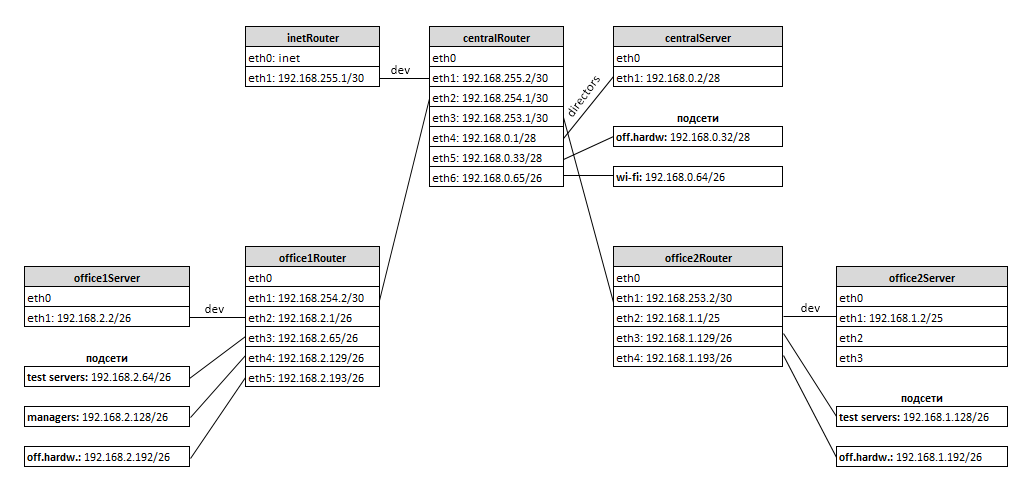
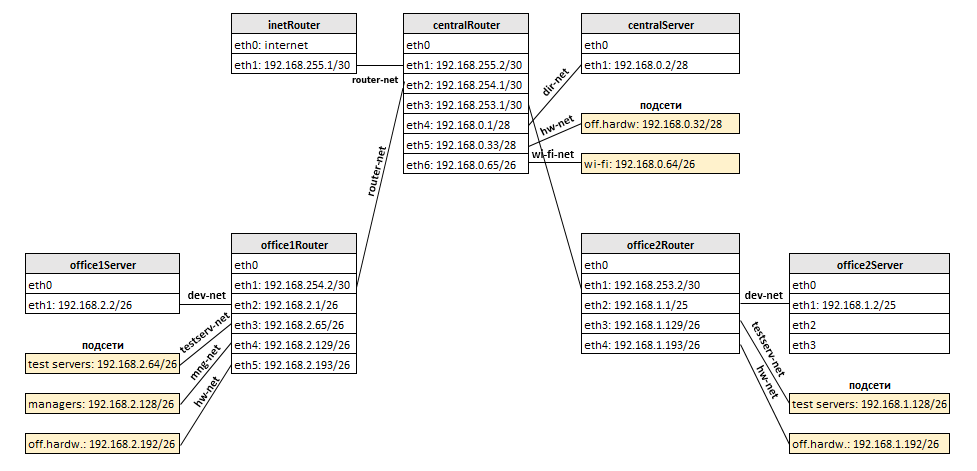
fixed files

Changed region(s): [[0.0, 0.0297, 0.7677, 0.9809], [0.5527, 0.4161, 0.9826, 0.9809]]

diff --git a/18-network_architecture/README.md b/18-network_architecture/README.md
@@ -10,23 +10,23 @@
 Тестировалось на virtualbox
 
 ### Планируемая архитектура
-построить следующую архитектуру:
+Построить следующую архитектуру:
 
 ### Сеть office1
-- 192.168.2.0/26      - dev
-- 192.168.2.64/26    - test servers
+- 192.168.2.0/26    - dev
+- 192.168.2.64/26   - test servers
 - 192.168.2.128/26  - managers
 - 192.168.2.192/26  - office hardware
 
 ### Сеть office2
-- 192.168.1.0/25      - dev
+- 192.168.1.0/25    - dev
 - 192.168.1.128/26  - test servers
 - 192.168.1.192/26  - office hardware
 
 ### Сеть central
 - 192.168.0.0/28    - directors
-- 192.168.0.32/28  - office hardware
-- 192.168.0.64/26  - wifi
+- 192.168.0.32/28   - office hardware
+- 192.168.0.64/26   - wifi
 
 ```
 Office1 ---\
@@ -53,23 +53,26 @@ Office2----/
 - Соединить офисы в сеть согласно схеме и настроить роутинг
 - Все сервера и роутеры должны ходить в инет черз inetRouter
 - Все сервера должны видеть друг друга
-- у всех новых серверов отключить дефолт на нат (eth0), который вагрант поднимает для связи
-- при нехватке сетевых интервейсов добавить по несколько адресов на интерфейс
+- У всех новых серверов отключить дефолт на нат (eth0), который вагрант поднимает для связи
+- При нехватке сетевых интервейсов добавить по несколько адресов на интерфейс
 
 ### Критерии оценки: 
 - 4 - сделана хотя бы часть
 - 5 - все сделано
 
-## Решение: практическая часть
+# Выполнение практической части
 
-Демонстрационный стенд разворачивается с помощью [Vagrantfile](Vagrantfile)
+### Демонстрационный стенд с серверами разворачивается с помощью [Vagrantfile](Vagrantfile)
 
-### Схема объединения хостов и подсетей
+В случае выявления проблем при тестировании (ping и т.д.) может потребоваться перезапуск сети на хостах (не воспроизвелось после фикса).
+
+### Логическая схема объединения хостов и подсетей
 
 ![alt text](plan_network.png)
 
-### Проверка видимости серверов и выхода в интернет с помощью ping, traceroute:
-- с хоста office1Server
+## Проверка видимости серверов и выхода в интернет
+
+- #### с сервера office1Server
 
 ```
 [vagrant@office1Server ~]$ ping -c 3 192.168.1.2 ; ping -c 3 192.168.0.2 ; ping -c 3 mail.ru
@@ -129,7 +132,7 @@ traceroute to otus.ru (80.87.192.10), 30 hops max, 60 byte packets
 12  core.webdc.ru (92.63.108.98)  21.190 ms  17.651 ms  9.698 ms
 13  main1.i.otus.ru (80.87.192.10)  4.082 ms  4.642 ms  3.380 ms
 ```
-- c хоста office2Server
+- #### c сервера office2Server
 
 ```
 [root@office2Server vagrant]# ping -c 3 192.168.2.2 ; ping -c 3 192.168.0.2 ; ping -c 3 mail.ru
@@ -190,7 +193,7 @@ traceroute to otus.ru (80.87.192.10), 30 hops max, 60 byte packets
 12  core.webdc.ru (92.63.108.98)  4.822 ms  6.355 ms  6.019 ms
 13  main1.i.otus.ru (80.87.192.10)  3.185 ms  7.375 ms  5.763 ms
 ```
-- c хоста centralOffice
+- #### c сервера centralServer
 ```
 [root@centralServer vagrant]# ping -c 3 192.168.2.2 ; ping -c 3 192.168.1.2 ; ping -c 3 mail.ru
 PING 192.168.2.2 (192.168.2.2) 56(84) bytes of data.
@@ -247,4 +250,189 @@ traceroute to otus.ru (80.87.192.10), 30 hops max, 60 byte packets
 12  main1.i.otus.ru (80.87.192.10)  5.118 ms  4.005 ms  3.963 ms
 ```
 
-## Решение: теоритическая часть
+# Выполнение теоритической части
+
+- Посчитать сколько узлов в каждой подсети, включая свободные
+- Указать broadcast адрес для каждой подсети
+- Проверить нет ли ошибок при разбиении
+- Найти свободные подсети
+
+## Сеть office1
+
+- #### dev: 192.168.2.0/26 
+```
+Адрес подсети:   192.168.2.0
+Сетевая маска:   255.255.255.192 = 26
+Минимальный IP:  192.168.2.1
+Максимальный IP: 192.168.2.62
+Broadcast:       192.168.2.63
+Число хостов:    62
+```
+- #### test servers: 192.168.2.64/26
+```
+Адрес подсети:   192.168.2.64
+Сетевая маска:   255.255.255.192 = 26
+Минимальный IP:  192.168.2.65
+Максимальный IP: 192.168.2.126
+Broadcast:       192.168.2.127
+Число хостов:    62
+```
+- #### managers: 192.168.2.128/26
+```
+Адрес подсети:   192.168.2.128
+Сетевая маска:   255.255.255.192 = 26
+Минимальный IP:  192.168.2.129
+Максимальный IP: 192.168.2.190
+Broadcast:       192.168.2.191
+Число хостов:    62
+```
+- #### office hardware: 192.168.2.192/26
+```
+Адрес подсети:   192.168.2.192
+Сетевая маска:   255.255.255.192 = 26
+Минимальный IP:  192.168.2.193
+Максимальный IP: 192.168.2.254
+Broadcast:       192.168.2.255
+Число хостов:    62
+```
+#### Итого:
+```
+Общее количество узлов сети office: 62 x 4 = 248
+Свободных подсетей нет
+```
+
+## Сеть office2
+
+- #### dev: 192.168.1.0/25
+```
+Адрес подсети:    192.168.1.0
+Сетевая маска:    255.255.255.128 = 25
+Минимальный IP:   192.168.1.1
+Максимальный IP:  192.168.1.126
+Broadcast:        192.168.1.127
+Число хостов:     126
+```
+- #### test servers: 192.168.1.128/26
+```
+Адрес подсети:    192.168.1.128
+Сетевая маска:    255.255.255.128 = 26
+Минимальный IP:   192.168.1.129
+Максимальный IP:  192.168.1.190
+Broadcast:        192.168.1.191
+Число хостов:     62
+```
+- #### office hardware:  192.168.1.192/26
+```
+Адрес подсети:    192.168.1.192
+Сетевая маска:    255.255.255.192 = 26
+Минимальный IP:   192.168.1.193
+Максимальный IP:  192.168.1.254
+Broadcast:        192.168.1.255
+Число хостов:     62
+```
+#### Итого:
+```
+Общее количество узлов сети office2: 126 + 62 + 62 = 250
+Свободных подсетей нет
+```
+
+## Сеть central
+
+- #### directors: 192.168.0.0/28
+```
+Адрес подсети:    192.168.0.0
+Сетевая маска:    255.255.255.240 = 28
+Минимальный IP:   192.168.0.1
+Максимальный IP:  192.168.0.14
+Broadcast:        192.168.0.15
+Число хостов:     14
+```
+- #### office hardware: 192.168.0.32/28
+```
+Адрес подсети:    192.168.0.32
+Сетевая маска:    255.255.255.240 = 28
+Минимальный IP:   192.168.0.33
+Максимальный IP:  192.168.0.46
+Broadcast:        192.168.0.47
+Число хостов:     14
+```
+- #### wi-fi: 192.168.0.64/26
+```
+Адрес подсети:    192.168.0.64
+Сетевая маска:    255.255.255.192 = 26
+Минимальный IP:   192.168.0.65
+Максимальный IP:  192.168.0.126
+Broadcast:        192.168.0.127
+Число хостов:     62
+```
+- #### 1-я свободная подсеть: 192.168.0.16/28
+```
+Адрес подсети:    192.168.0.16
+Сетевая маска:    255.255.255.240 = 28
+Минимальный IP:   192.168.0.17
+Максимальный IP:  192.168.0.30
+Broadcast:        192.168.0.31
+Число хостов:     14
+```
+- #### 2-я свободная подсеть: 192.168.0.48/28
+```
+Адрес подсети:    192.168.0.48
+Сетевая маска:    255.255.255.240 = 28
+Минимальный IP:   192.168.0.49
+Максимальный IP:  192.168.0.62
+Broadcast:        192.168.0.63
+Число хостов:     14
+```
+- #### 3-я свободная подсеть: 192.168.0.128/25
+```
+Адрес подсети:    192.168.0.128
+Сетевая маска:    255.255.255.128 = 25
+Минимальный IP:   192.168.0.129
+Максимальный IP:  192.168.0.254
+Broadcast:        192.168.0.255
+Число хостов:     126
+```
+#### Итого:
+```
+В сети central имеются 3 свободные подсети: 192.168.0.16/28, 192.168.0.48/28, 192.168.0.128/25.
+Общее количество узлов в сети central (включая свободные): 14 + 14 + 62 + 14 + 14 + 126 = 244
+```
+
+## Найти свободные подсети (в рамках всей сети)
+
+- #### 10.0.0.0/8 
+```
+Адрес подсети: 10.0.0.0   
+Сетевая маска: 255.0.0.0 = 8
+Число хостов:  16777214  
+```
+- #### 172.16.0.0/12
+```
+Адрес подсети: 172.16.0.0
+Сетевая маска: 255.240.0.0 = 12
+Число хостов:  1048574
+```
+- #### 192.168.{3,4,5,..252}.0/24 
+```
+Адрес подсетей: 192.168.{3,4,5,..252}.0
+Сетевая маска:  255.255.255.0 = 24
+Число хостов:   254 на каждую подсеть 192.168.{3,4,5,..252}.0/24
+```
+- #### 192.168.253.{4,8,12,..252}/30 
+```
+Адрес подсетей: 192.168.253.{4,8,12,..252)/30
+Сетевая маска:  255.255.255.252 = 30
+Число хостов:   2 на каждую подсеть 192.168.253.{4,8,12,..252}/30
+```
+- #### 192.168.254.{4,8,12,..252}/30 
+```
+Адрес подсетей: 192.168.254.{4,8,12,..252)/30
+Сетевая маска:  255.255.255.252 = 30
+Число хостов:   2 на каждую подсеть 192.168.254.{4,8,12,..252}/30
+```
+- #### 192.168.255.{4,8,12,..252}/30
+```
+Адрес подсетей: 192.168.255.{4,8,12,..252)/30
+Сетевая маска:  255.255.255.252 = 30
+Число хостов:   2 на каждую подсеть 192.168.255.{4,8,12,..252}/30
+```
